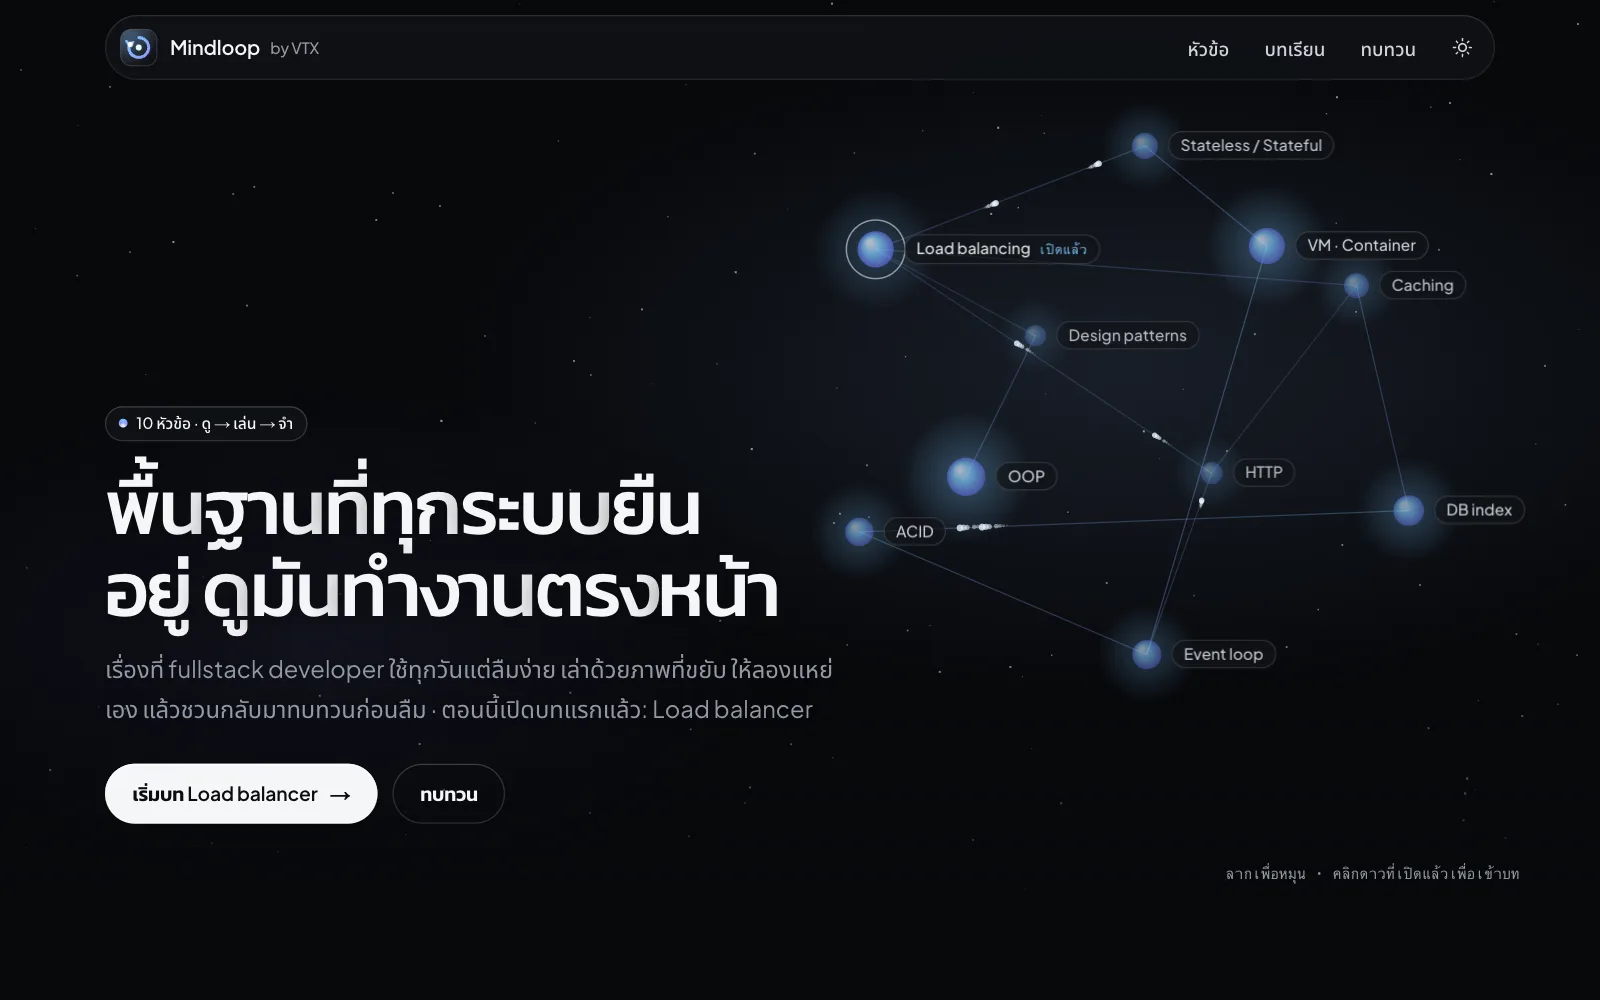
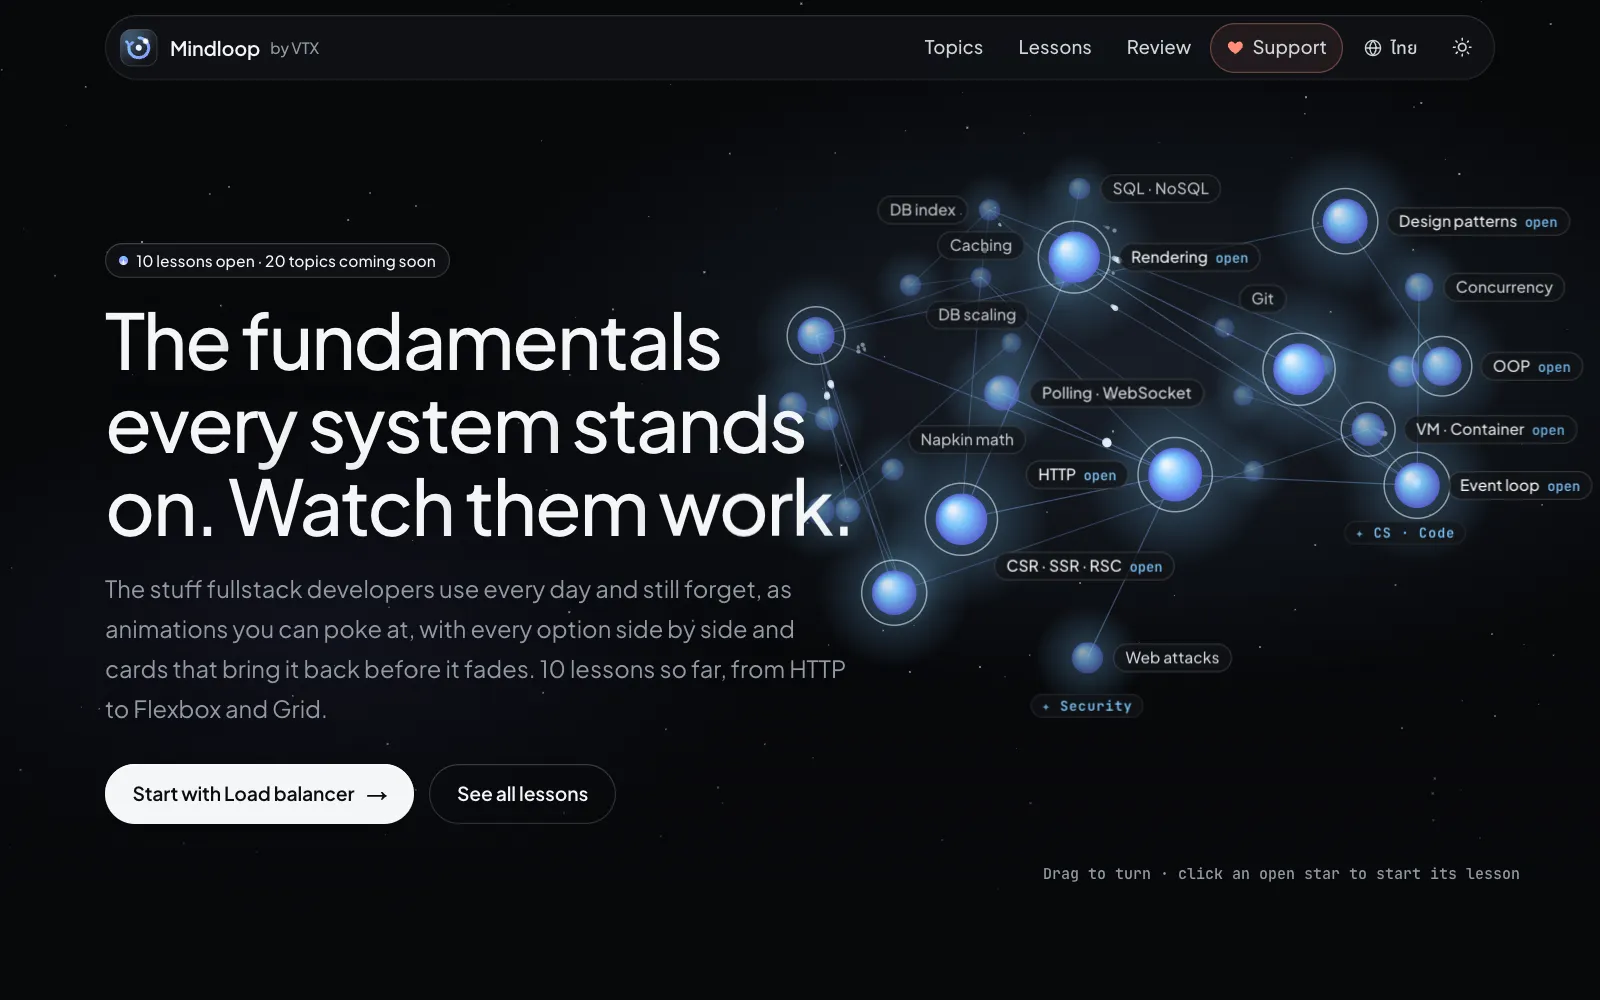
Portfolio leftovers: fresh shots of Studio's and Mindloop's live homes, no orb on the 404, the old favicon_io gone, and ESLint set up (flat config, bun run lint) — clean
Shots: 1280 × 800 at 1.25 (1600 × 1000 + 800 × 500 WebP), dark and light, light set through each site's own theme key.
ESLint: next/core-web-vitals + next/typescript, docs/ prototypes ignored; the one warning (<head> in the App Router root
layout) is the Pages Router's rule and is said so inline. tsc, eslint and next build pass; served locally: /, /th 200,
404 without the orb, no console errors.

diff --git a/app/globals.css b/app/globals.css
@@ -183,9 +183,6 @@ background:var(--bg);color:var(--t2);font:400 16.5px/1.72 var(--fb);-webkit-font
 .pv .p-btn-ghd:hover{background-color:rgba(255,255,255,.08)}
 .pv .p-btn-ghd:focus-visible{outline-color:#f5f6f8}
 .pv .p-hire .mail{display:block;margin-top:14px;font:500 14px/1.4 var(--fm);color:#a3a9b3}
-.pv .orbc{position:relative;width:clamp(120px,18cqi,220px);aspect-ratio:1;border-radius:50%;background:radial-gradient(circle at 36% 30%,#3b3f49,#16181d 52%,#07080a);box-shadow:0 0 80px -10px rgba(124,200,255,.35),0 0 120px -30px rgba(142,151,255,.4)}
-.pv .orbc::before{content:"";position:absolute;inset:0;border-radius:50%;background:conic-gradient(from 200deg,#7cc8ff,#8e97ff,#eef5ff,#8e97ff,#7cc8ff);-webkit-mask-image:radial-gradient(circle at 46% 44%,transparent 46%,#000 74%);mask-image:radial-gradient(circle at 46% 44%,transparent 46%,#000 74%)}
-.pv .orbc::after{content:"";position:absolute;left:24%;top:17%;width:22%;height:15%;border-radius:50%;background:radial-gradient(closest-side,rgba(255,255,255,.85),transparent);transform:rotate(-30deg)}
 
 /* footer */
 .pv .p-ft{padding-block:8px 44px}
@@ -223,7 +220,6 @@ background:var(--bg);color:var(--t2);font:400 16.5px/1.72 var(--fb);-webkit-font
 .pv .doc a{color:var(--ink);border-bottom:1px solid var(--edge2)}
 .pv .doc .upd{font:500 13px/1.4 var(--fm);color:var(--mute);margin-top:18px}
 .pv .nf{min-height:80vh;display:grid;place-items:center;text-align:center;padding:48px var(--pad)}
-.pv .nf .orbc{width:120px;margin:0 auto 28px}
 .pv .nf h1{font-size:clamp(40px,7cqi,72px);letter-spacing:-.035em}
 .pv .nf p{margin-top:14px;color:var(--mute);font-size:17px}
 .pv .nf .acts{display:flex;flex-wrap:wrap;justify-content:center;gap:12px;margin-top:28px}

diff --git a/components/RootShell.tsx b/components/RootShell.tsx
@@ -16,6 +16,8 @@ import "@/app/globals.css";
 export function RootShell({ lang, children }: { lang: Lang; children: React.ReactNode }) {
   return (
     <html lang={lang} className={fontVars} data-theme={DEFAULT_THEME} suppressHydrationWarning>
+      {/* An App Router root layout writes <head> itself; next/head is the Pages Router's. The rule is for that. */}
+      {/* eslint-disable-next-line @next/next/no-head-element */}
       <head>
         <script dangerouslySetInnerHTML={{ __html: themeScript }} />
       </head>

diff --git a/app/global-not-found.tsx b/app/global-not-found.tsx
@@ -17,7 +17,6 @@ export default function GlobalNotFound() {
         <div className="pv">
           <main className="nf">
             <div>
-              <div className="orbc" aria-hidden="true" />
               <p className="p-eye" style={{ justifyContent: "center" }}>
                 <span className="p-k">404</span>tanawat.dev
               </p>

diff --git a/docs/wrap-up.md b/docs/wrap-up.md
@@ -49,19 +49,16 @@ on 20 Nov 2026: one lesson open and nine coming, as its own home says; its sourc
 
 ## For later
 
-- **When Lapis, Fulmen, Silva and Ventus ask before checking for updates** (Labs's O1C): drop the update clause from
-  the family's "No account. No cloud. No tracking." line (VTX.local in content/home.ts) and from the profile's
-  matching line.
-- **Studio's and Mindloop's shots** (public/apps/shots/studio-1-*, mindloop-1-*) are their live homes as of 19 and 20
-  Nov 2026. Retake them if a home changes a lot. Mindloop's card says one lesson; update it as lessons open.
+- ✅ 25 Nov 2026: the update clause is gone from the family line (content/home.ts) and the profile — all four apps ask
+  before checking since their 19 Nov releases.
+- **Studio's and Mindloop's shots** (public/apps/shots/studio-1-*, mindloop-1-*) were retaken from the live homes on
+  25 Nov 2026 (1280 × 800 at 1.25, dark and light; light set through each site's own theme key). Mindloop's home grows
+  as lessons open: retake when it changes a lot. Its card now names lessons instead of a count, so it doesn't go stale.
 - **Hand-run figures:** "7 % of commits after midnight" comes from `scripts/night-commits.py`. The Labs count falls
   back to 85 (`LABS_TOOLS`) only if vtxlabs.app can't be read at build. Lapis's 142 GB was measured once.
 - **If the core stack changes:** edit `CORE` in content/home.ts, then run `scripts/stack-icons.mjs`. It rebuilds the
   portfolio's logo data and the profile's badges.
-- **Small leftovers, none urgent:**
-  - The 404 page still shows the orb (Studio's motif, gone from the hire card).
-  - `public/favicon_io/` holds the old site's unused icons.
-  - ESLint isn't configured (`next lint` would ask).
+- **Small leftovers, none urgent** (25 Nov 2026: the 404 orb, `public/favicon_io/` and the missing ESLint config are done — `bun run lint` runs ESLint with eslint.config.mjs):
   - The profile's `> weapons --history` keeps its own grouping, not the portfolio's audited one. Nothing in it is
     false.
 - **GitHub schedules:** a scheduled workflow on a repo with no activity for 60 days gets paused by GitHub. Any push to
